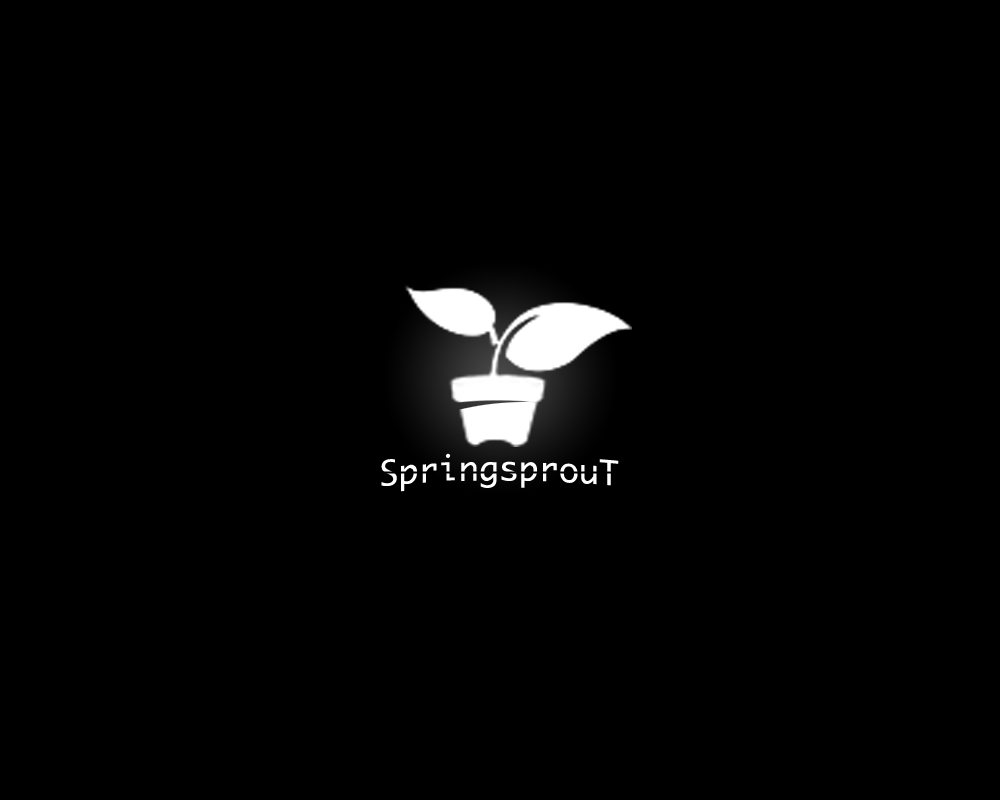
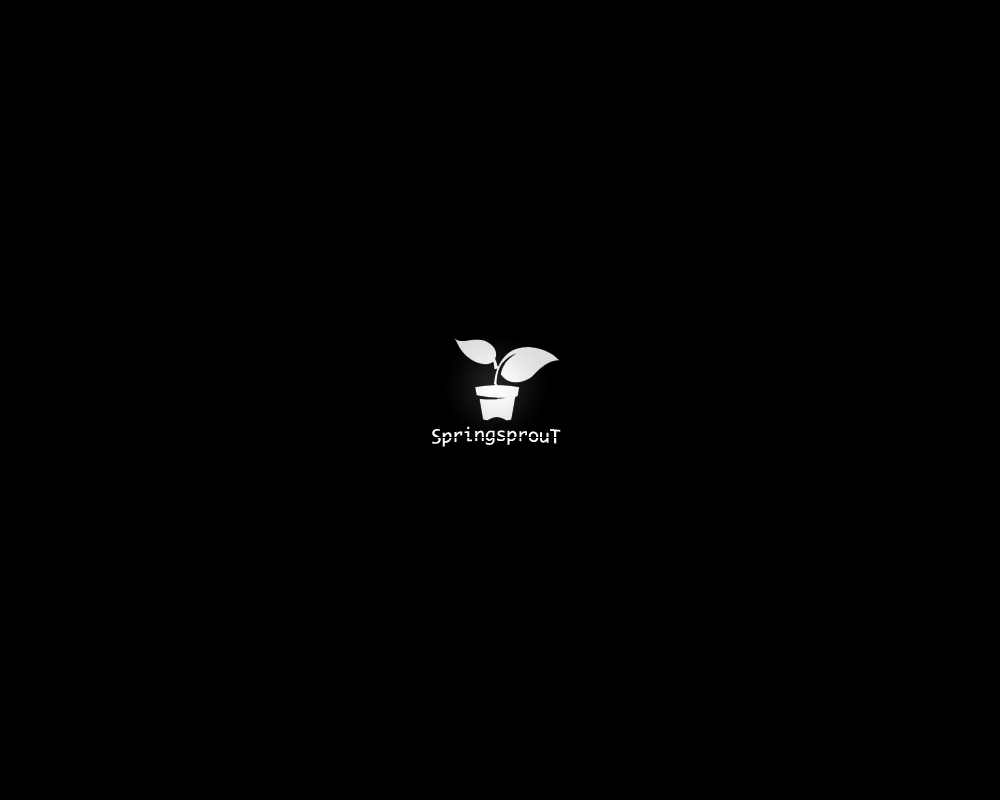
배경 이미지 변경.
git-svn-id: http://svn.pentome.com/isyoon/trunk@168 ea5790a9-a2b4-4b5f-b68c-306463eac401

Changed region(s): [[0.372, 0.3438, 0.62, 0.625]]

diff --git a/web/css/desktop/desktop.css b/web/css/desktop/desktop.css
@@ -6,7 +6,7 @@
  * background:#3d71b8 url(../../images/desktop/wallpapers/desktop.jpg) no-repeat left top;
  */
 html, body {
-    background: #000 url(../../images/desktop/wallpapers/springsprout-disit.jpg) no-repeat top center;
+    background: #000 url(../../images/desktop/wallpapers/springsprout-light.png) no-repeat top center;
     font: normal 12px tahoma, arial, verdana, sans-serif;
     margin: 0;
     padding: 0;
